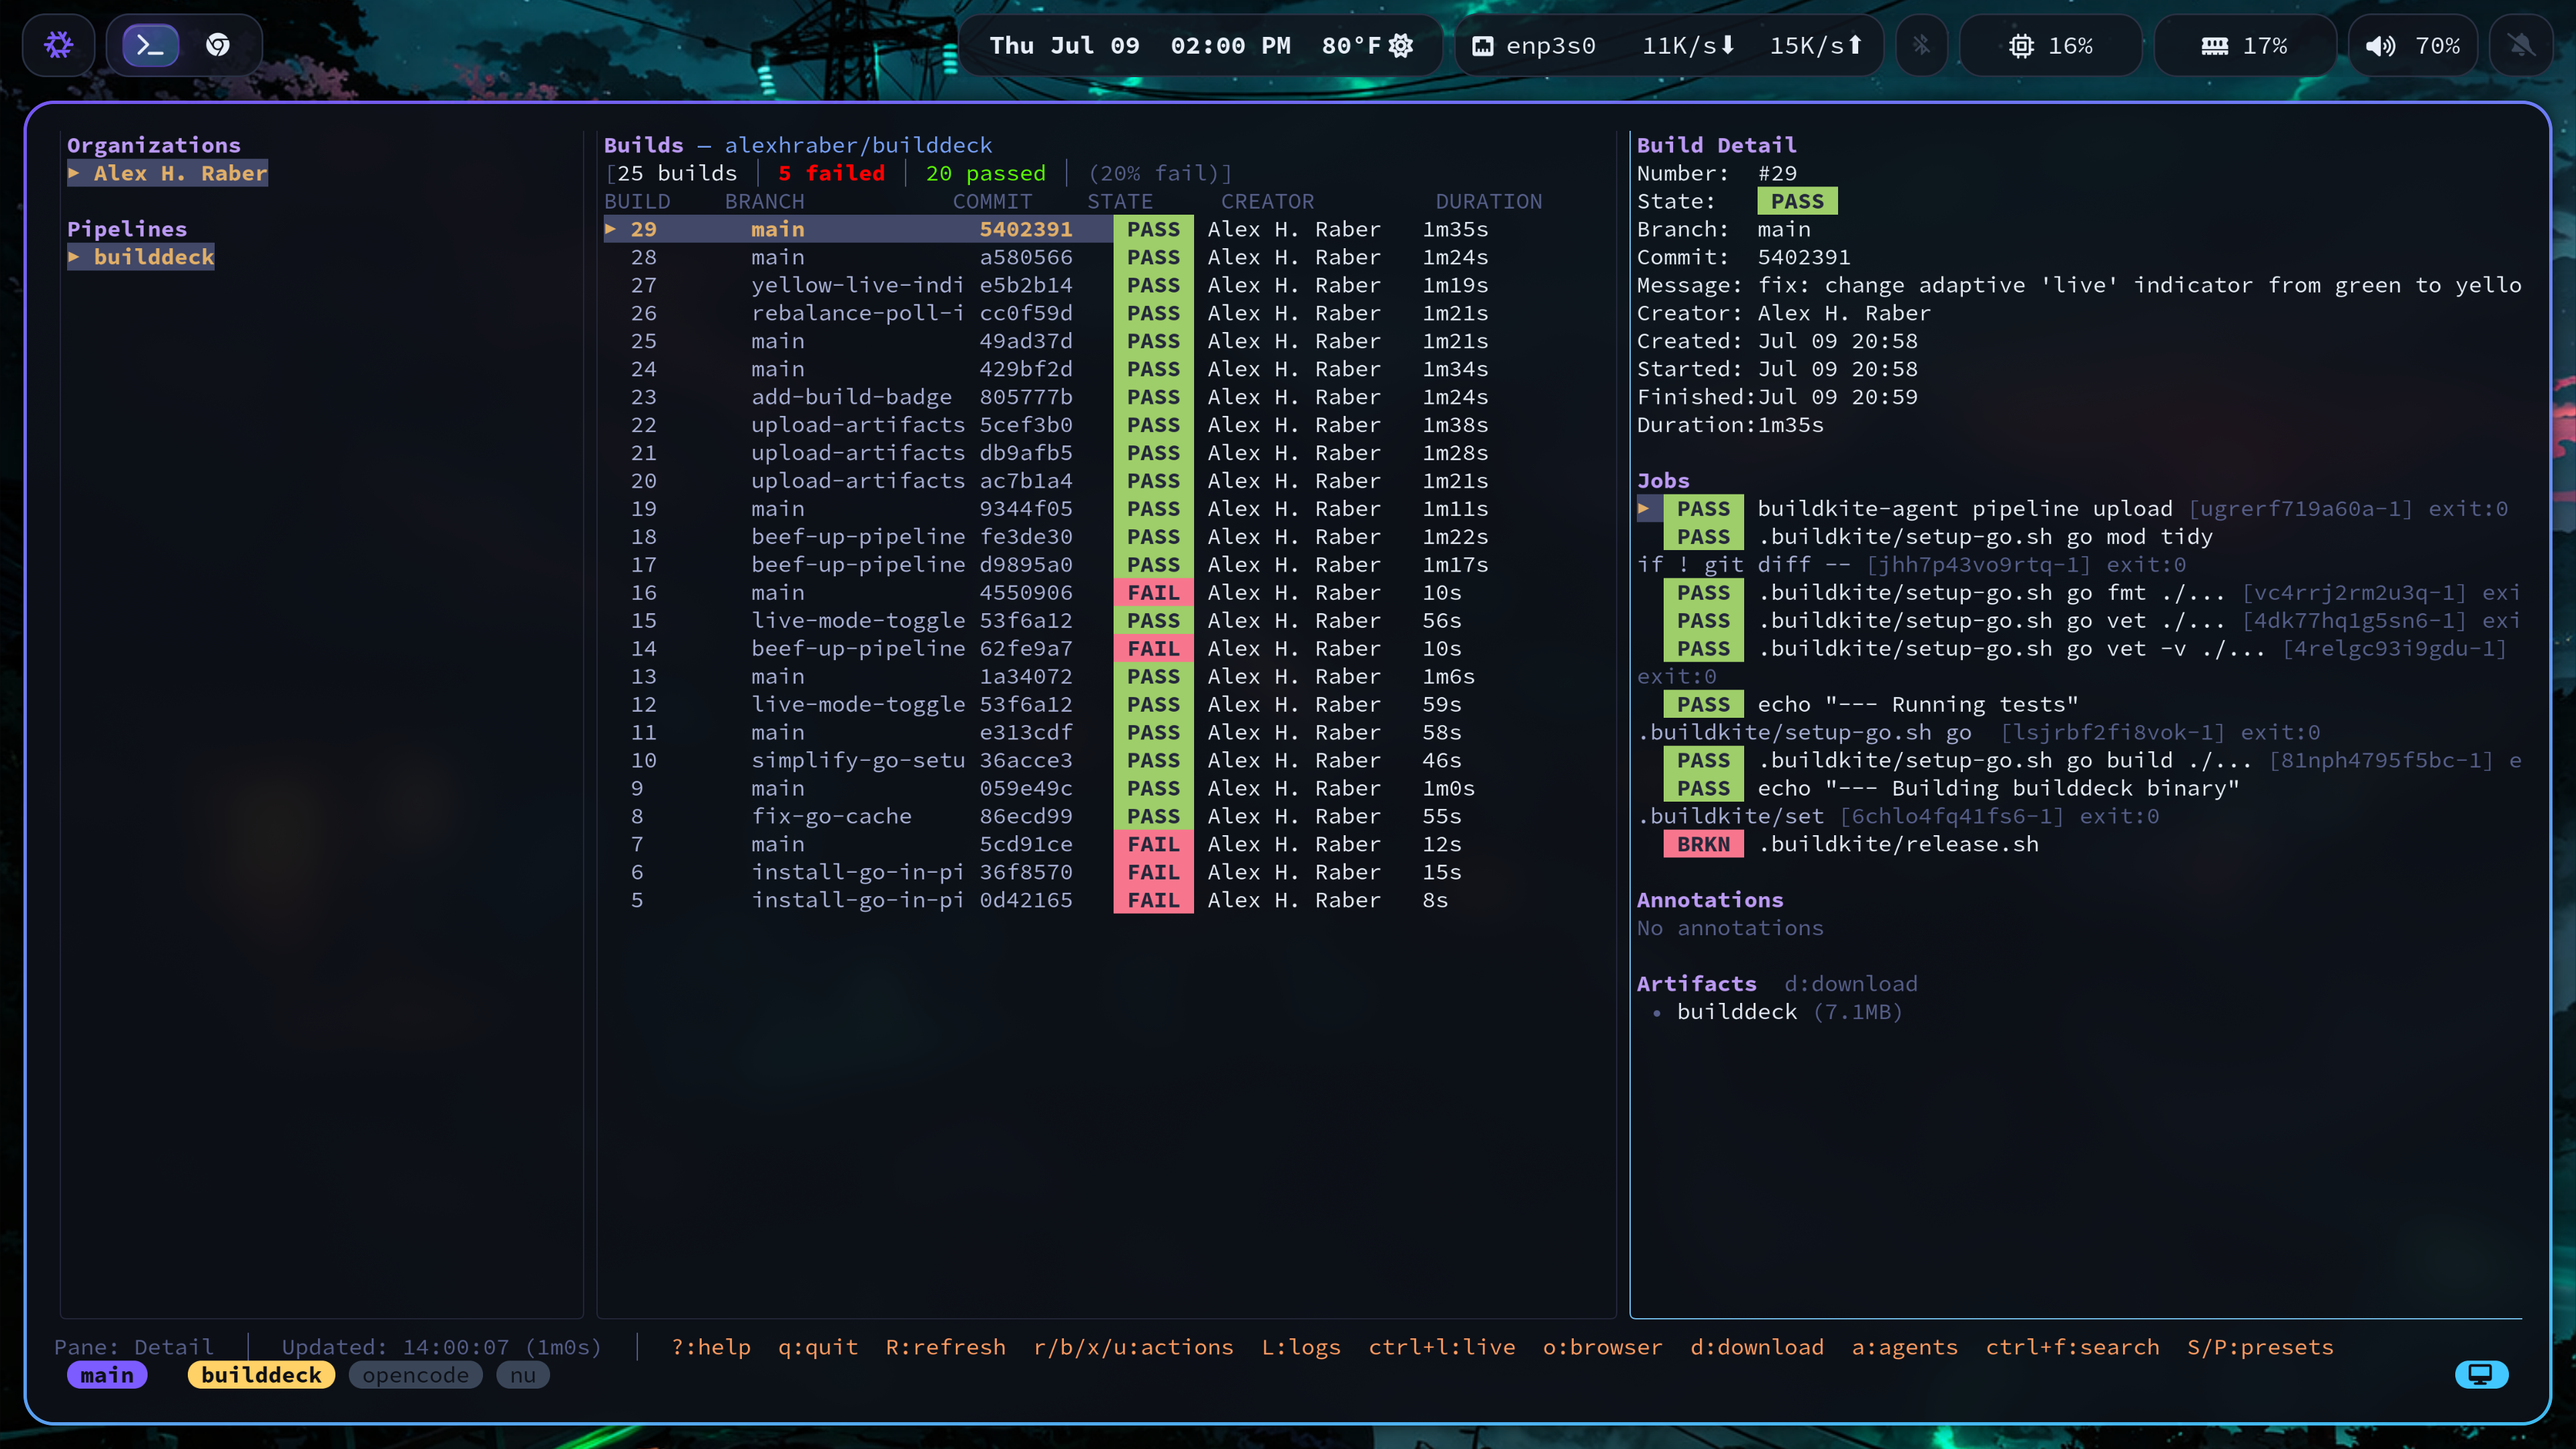
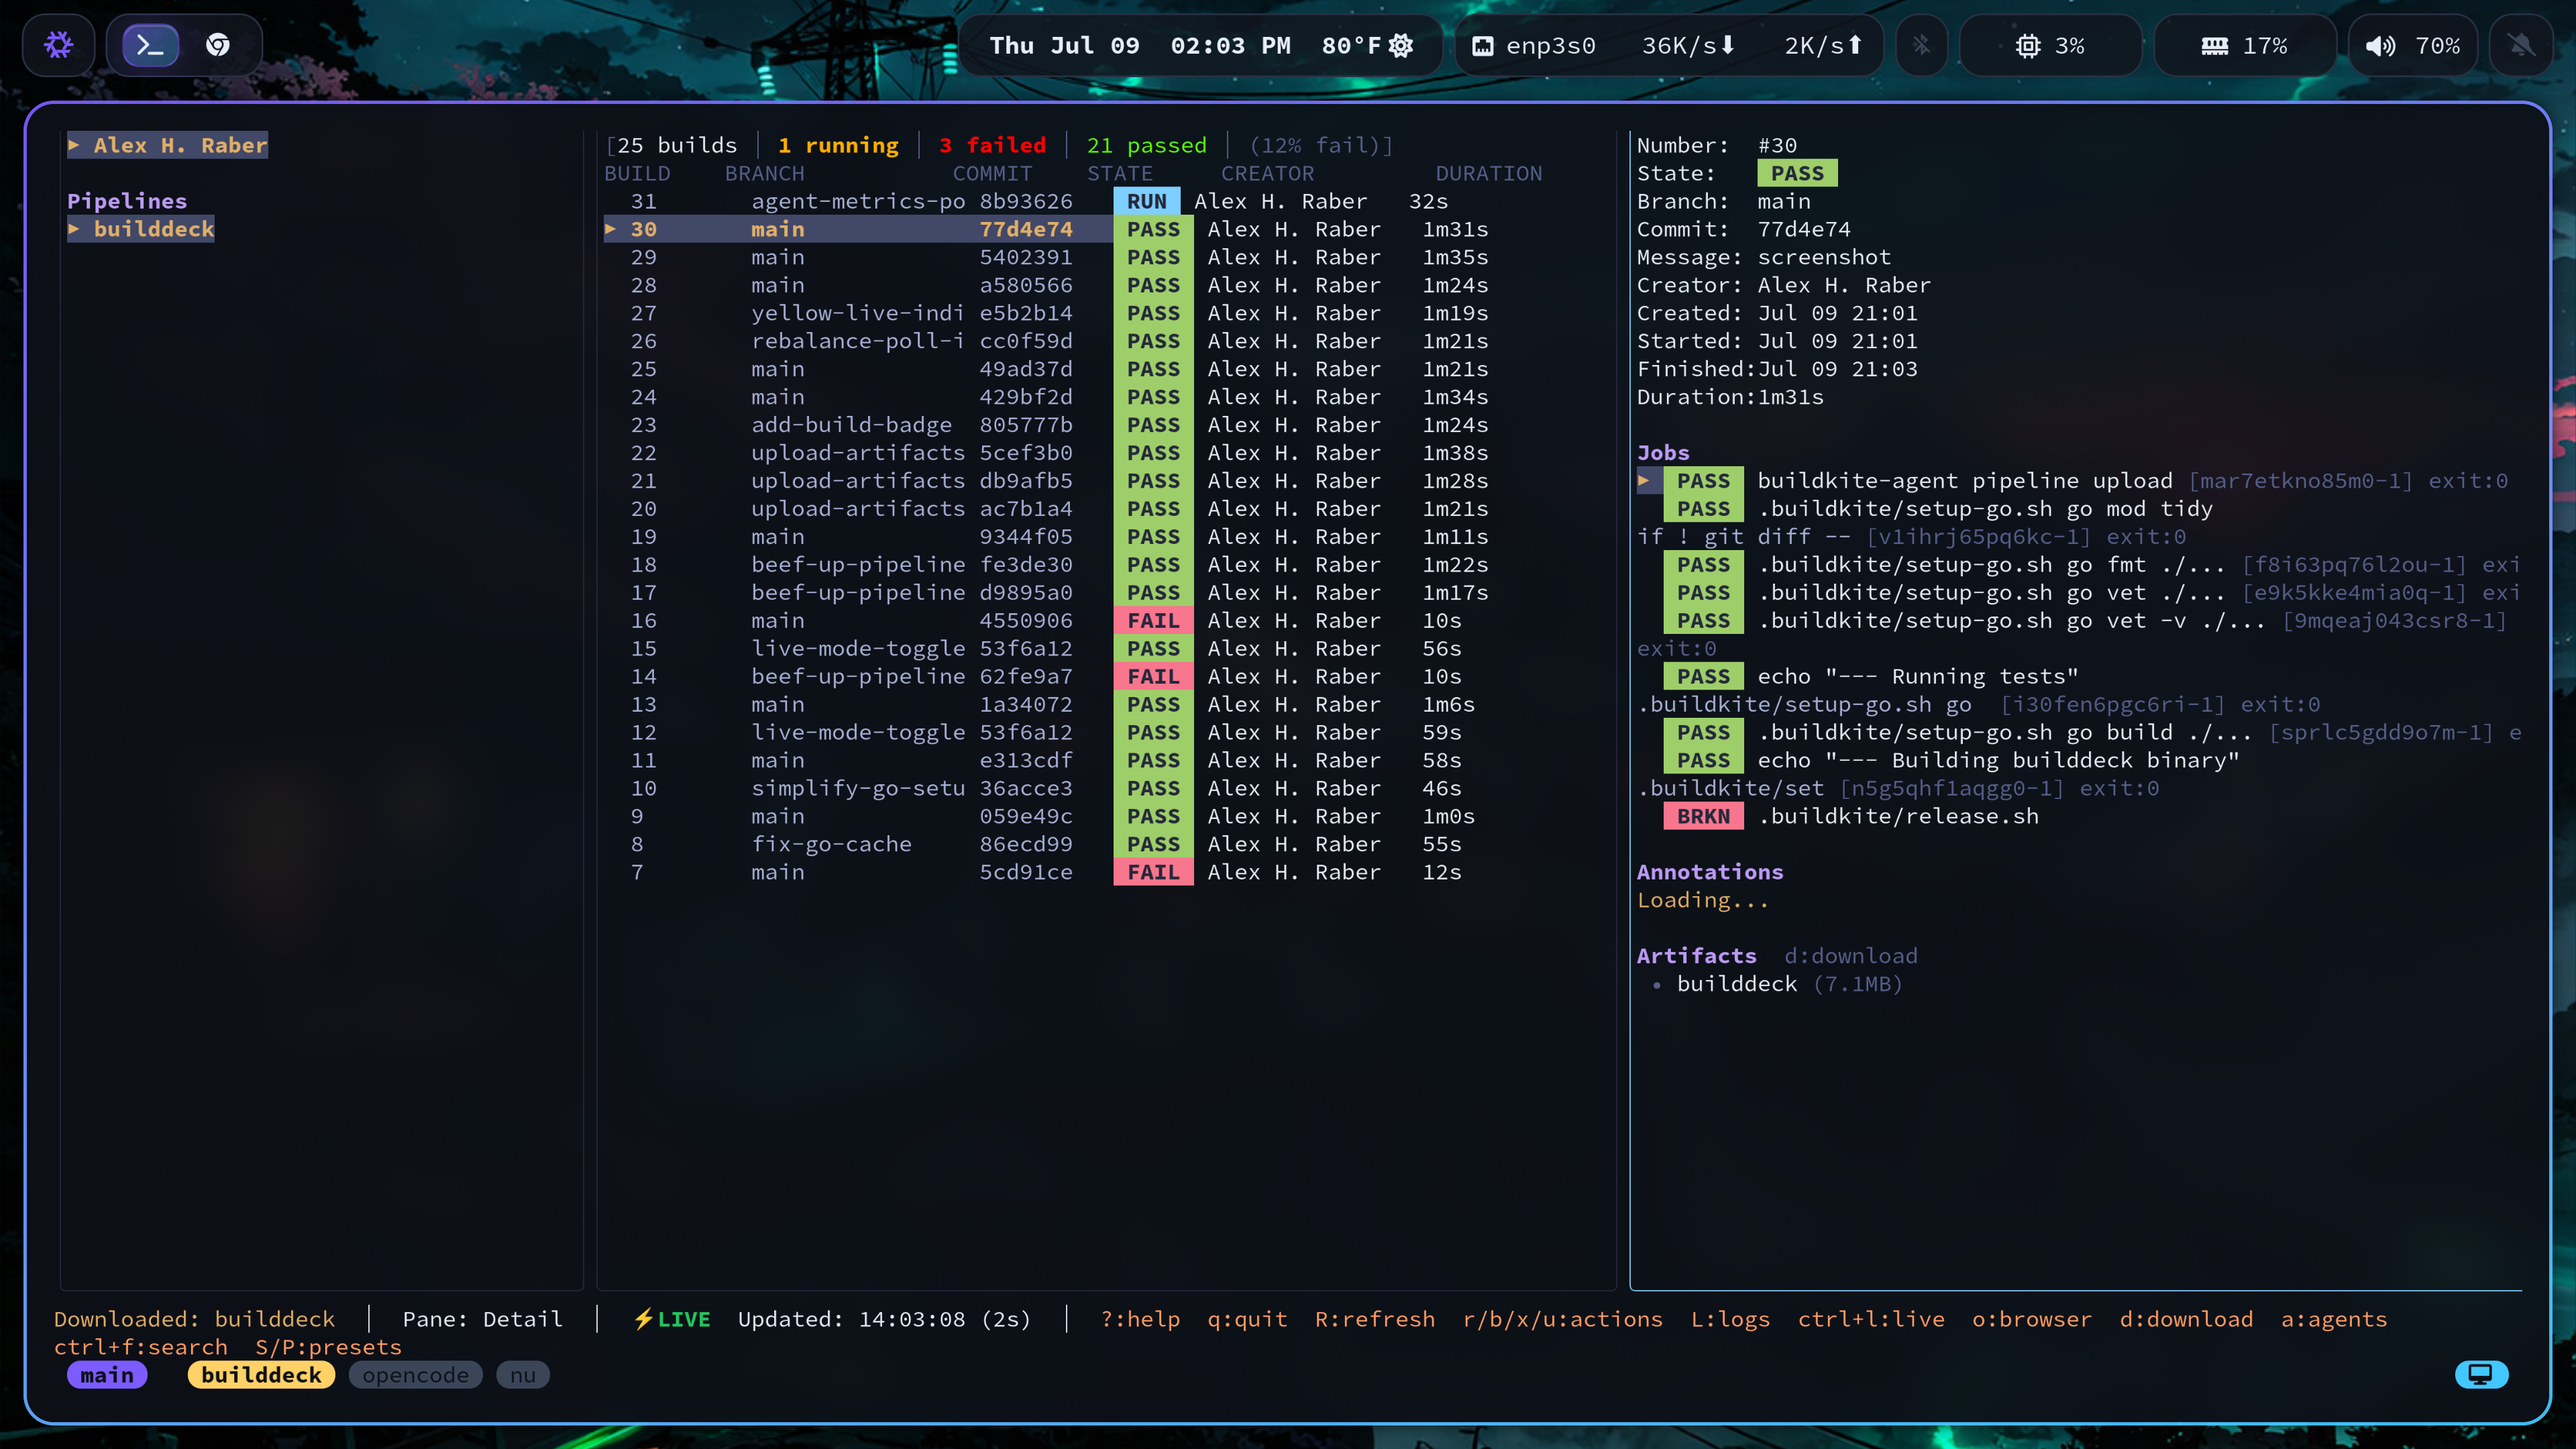
feat: add agent metrics popup (m key) in detail pane (#27)
* feat: add agent metrics popup (m key) in detail pane

Pressing m on the detail pane shows an overlay with per-job agent
info: name, hostname, OS, version, IP, queue, and metadata.

* screenshot

diff --git a/internal/tui/views.go b/internal/tui/views.go
@@ -64,6 +64,11 @@ func (m Model) View() string {
 		return m.presetPickerOverlay(mainView)
 	}
 
+	// Overlay agent metrics if present
+	if m.showMetrics {
+		return m.metricsOverlay(mainView)
+	}
+
 	// Overlay options if present
 	if m.showOptions {
 		return m.optionsOverlay(mainView)
@@ -884,6 +889,58 @@ func (m Model) optionsOverlay(base string) string {
 		BorderForeground(lipgloss.Color(activeTheme.BorderActive)).
 		Padding(1, 2).
 		Width(65).
+		Render(b.String())
+
+	return lipgloss.Place(m.width, m.height, lipgloss.Center, lipgloss.Center, overlay)
+}
+
+func (m Model) metricsOverlay(base string) string {
+	var b strings.Builder
+
+	b.WriteString(titleStyle.Render("  Agent Metrics  "))
+	b.WriteString("\n\n")
+
+	if m.selectedBuild == nil || len(m.selectedBuild.Jobs) == 0 {
+		b.WriteString(dimStyle.Render("  No job data available"))
+	} else {
+		for _, job := range m.selectedBuild.Jobs {
+			if job.Type == "waiter" {
+				continue
+			}
+			label := job.Label
+			if label == "" {
+				label = job.Command
+			}
+			b.WriteString(fmt.Sprintf("  %s  %s\n", stateBadge(job.State), label))
+			if job.Agent != nil {
+				ag := job.Agent
+				b.WriteString(fmt.Sprintf("    Agent:    %s\n", ag.Name))
+				b.WriteString(fmt.Sprintf("    Hostname: %s\n", ag.Hostname))
+				b.WriteString(fmt.Sprintf("    OS:       %s\n", ag.OS))
+				b.WriteString(fmt.Sprintf("    Version:  %s\n", ag.Version))
+				if ag.IPAddress != "" {
+					b.WriteString(fmt.Sprintf("    IP:       %s\n", ag.IPAddress))
+				}
+				b.WriteString(fmt.Sprintf("    Queue:    %s\n", ag.Queue))
+				if len(ag.Metadata) > 0 {
+					b.WriteString("    Metadata:\n")
+					for _, meta := range ag.Metadata {
+						b.WriteString(fmt.Sprintf("      • %s\n", meta))
+					}
+				}
+			} else {
+				b.WriteString(dimStyle.Render("    No agent assigned\n"))
+			}
+			b.WriteString("\n")
+		}
+	}
+
+	b.WriteString(dimStyle.Render("  esc/m:close  q:quit"))
+
+	overlay := lipgloss.NewStyle().
+		Border(lipgloss.RoundedBorder()).
+		BorderForeground(lipgloss.Color(activeTheme.BorderActive)).
+		Padding(1, 2).
 		Render(b.String())
 
 	return lipgloss.Place(m.width, m.height, lipgloss.Center, lipgloss.Center, overlay)

diff --git a/internal/tui/keys.go b/internal/tui/keys.go
@@ -17,6 +17,7 @@ type keyMap struct {
 	Help         key.Binding
 	Logs         key.Binding
 	LiveMode     key.Binding
+	Metrics      key.Binding
 	RetryJob     key.Binding
 	Rebuild      key.Binding
 	Cancel       key.Binding
@@ -88,6 +89,10 @@ var keys = keyMap{
 		key.WithKeys("ctrl+l"),
 		key.WithHelp("ctrl+l", "live mode"),
 	),
+	Metrics: key.NewBinding(
+		key.WithKeys("m"),
+		key.WithHelp("m", "agent metrics"),
+	),
 	RetryJob: key.NewBinding(
 		key.WithKeys("r"),
 		key.WithHelp("r", "retry job"),
@@ -142,7 +147,7 @@ func (k keyMap) ShortHelp() []key.Binding {
 	return []key.Binding{
 		k.Up, k.Down, k.Left, k.Right, k.Tab, k.ShiftTab,
 		k.Enter, k.Top, k.Bottom, k.Search, k.Refresh,
-		k.LiveMode, k.Logs, k.RetryJob, k.Rebuild, k.Cancel, k.Unblock,
+		k.LiveMode, k.Logs, k.Metrics, k.RetryJob, k.Rebuild, k.Cancel, k.Unblock,
 		k.OpenBrowser, k.Download, k.Agents, k.GlobalSearch,
 		k.SavePreset, k.LoadPreset, k.Options, k.Help, k.Quit,
 	}
@@ -152,7 +157,7 @@ func (k keyMap) FullHelp() [][]key.Binding {
 	return [][]key.Binding{
 		{k.Up, k.Down, k.Left, k.Right},
 		{k.Tab, k.ShiftTab, k.Enter},
-		{k.Top, k.Bottom, k.Search, k.GlobalSearch, k.Refresh, k.LiveMode, k.Logs},
+		{k.Top, k.Bottom, k.Search, k.GlobalSearch, k.Refresh, k.LiveMode, k.Logs, k.Metrics},
 		{k.RetryJob, k.Rebuild, k.Cancel, k.Unblock},
 		{k.OpenBrowser, k.Download, k.Agents, k.Options},
 		{k.SavePreset, k.LoadPreset},

diff --git a/internal/tui/update.go b/internal/tui/update.go
@@ -325,6 +325,10 @@ func (m Model) handleKey(msg tea.KeyMsg) (tea.Model, tea.Cmd) {
 		return m.handleOptionsKey(msg)
 	}
 
+	if m.showMetrics {
+		return m.handleMetricsKey(msg)
+	}
+
 	if key.Matches(msg, keys.Logs) {
 		if m.showLogs {
 			m.showLogs = false
@@ -507,6 +511,18 @@ func (m Model) handleKey(msg tea.KeyMsg) (tea.Model, tea.Cmd) {
 		m.globalSearching = true
 		m.globalSearchQuery = ""
 		m.globalSearchResult = nil
+		return m, nil
+
+	case key.Matches(msg, keys.Metrics):
+		if m.selectedBuild == nil || m.activePane != rightPane {
+			m.searchMsg = "Select a build on the detail pane"
+			return m, nil
+		}
+		if len(m.selectedBuild.Jobs) == 0 {
+			m.searchMsg = "No jobs loaded for this build"
+			return m, nil
+		}
+		m.showMetrics = true
 		return m, nil
 
 	case key.Matches(msg, keys.LiveMode):
@@ -706,6 +722,18 @@ func (m Model) handleAgentViewKey(msg tea.KeyMsg) (tea.Model, tea.Cmd) {
 				openURL(agent.WebURL)
 				m.searchMsg = "Opened agent in browser"
 			}
+		}
+		return m, nil
+	}
+	return m, nil
+}
+
+func (m Model) handleMetricsKey(msg tea.KeyMsg) (tea.Model, tea.Cmd) {
+	switch {
+	case msg.String() == "esc", key.Matches(msg, keys.Metrics), key.Matches(msg, keys.Quit):
+		m.showMetrics = false
+		if key.Matches(msg, keys.Quit) {
+			return m, tea.Quit
 		}
 		return m, nil
 	}

diff --git a/internal/tui/model.go b/internal/tui/model.go
@@ -101,7 +101,8 @@ type Model struct {
 	denseMode        bool
 	sortAsc          bool
 
-	liveMode bool
+	liveMode    bool
+	showMetrics bool
 
 	// Cache maps to prevent duplicate, rate-limiting API requests
 	buildDetails      map[string]*buildkite.Build
